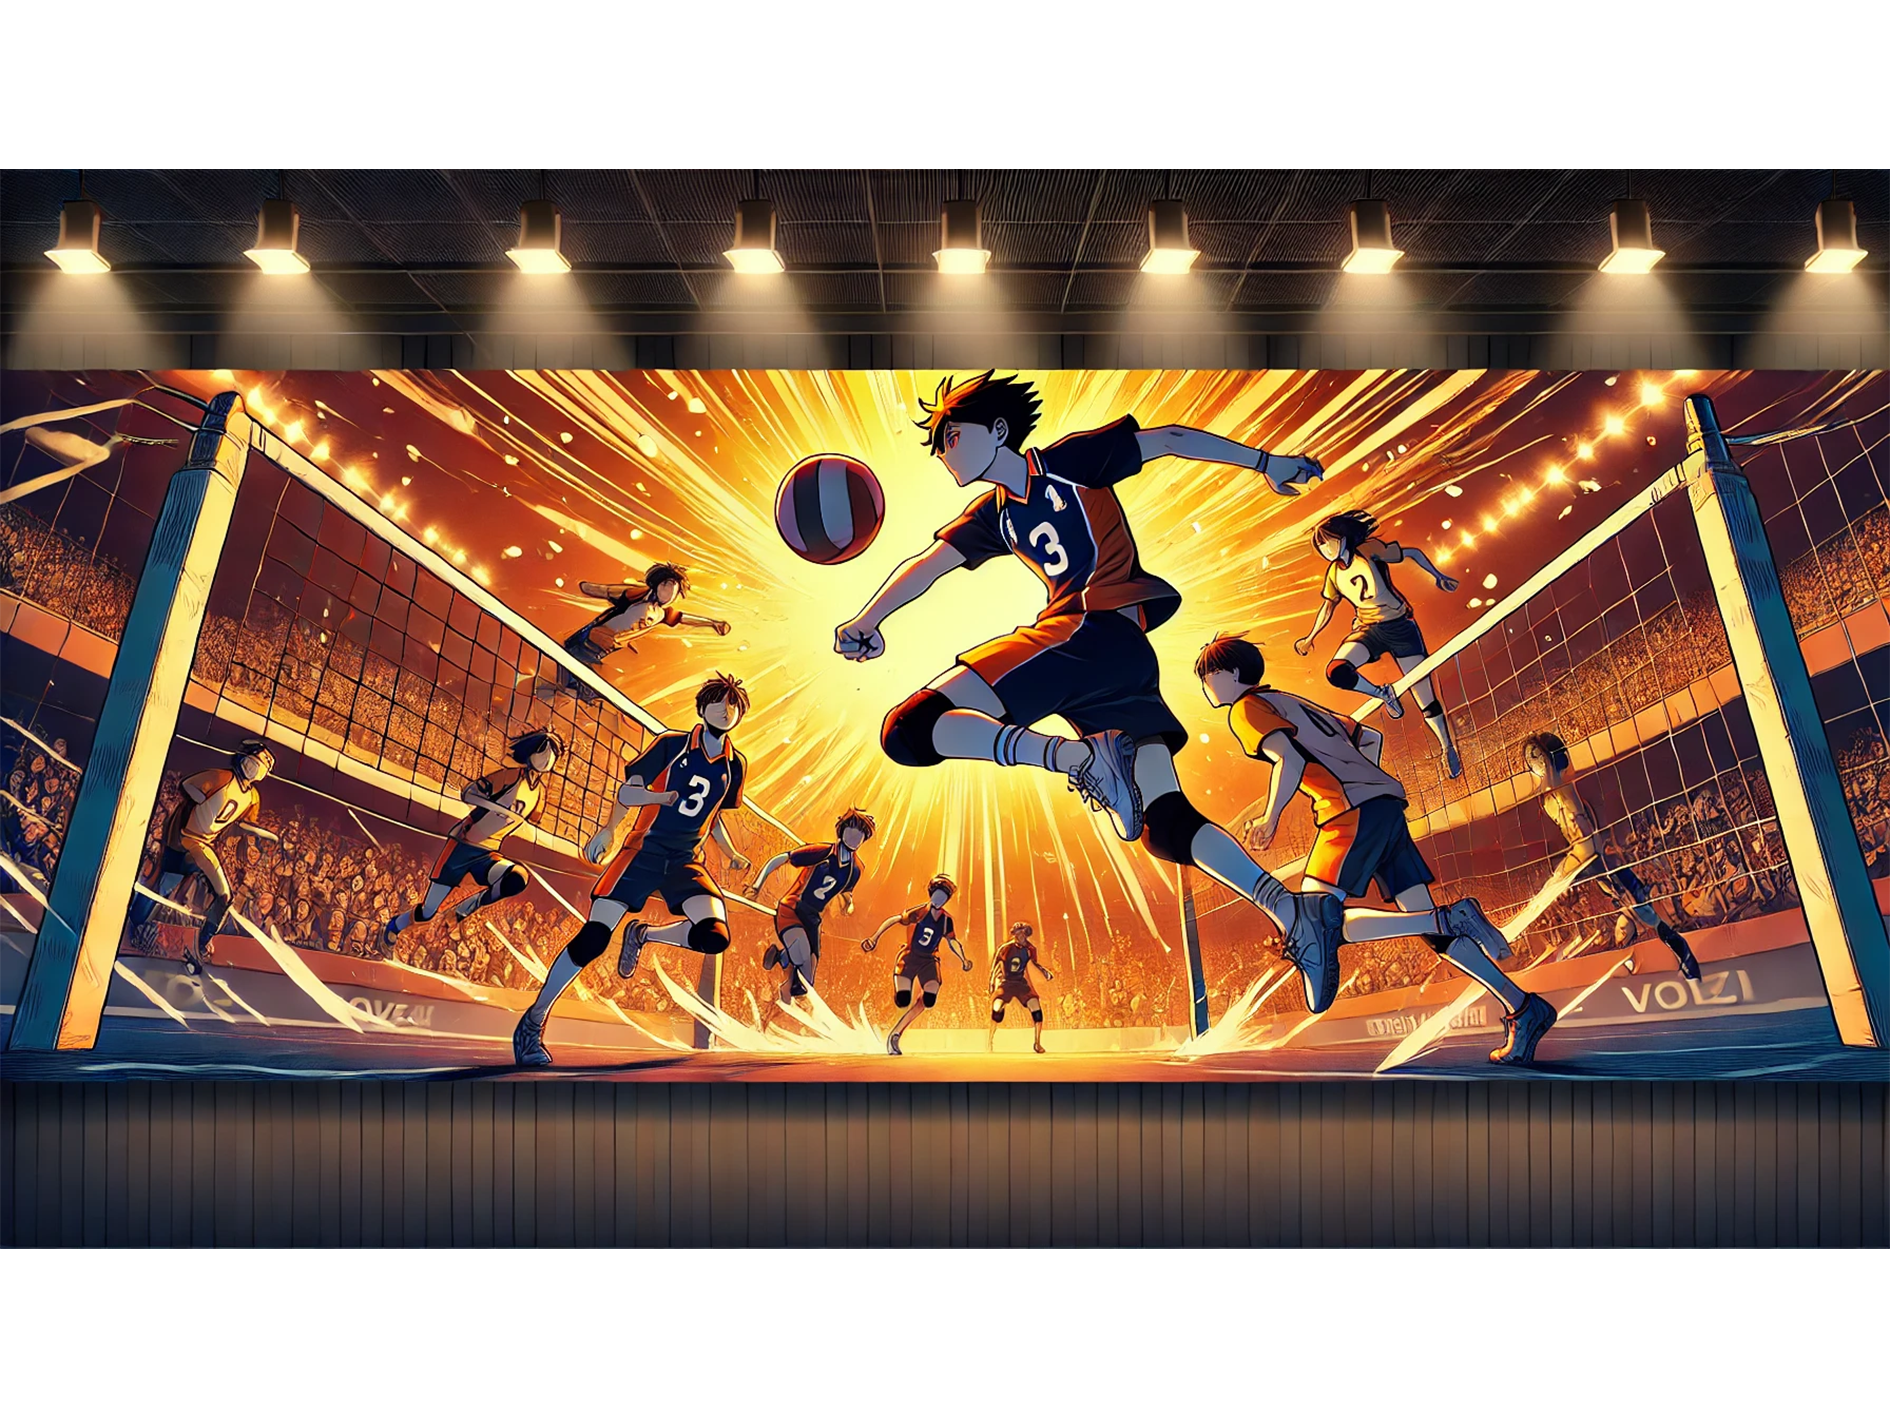
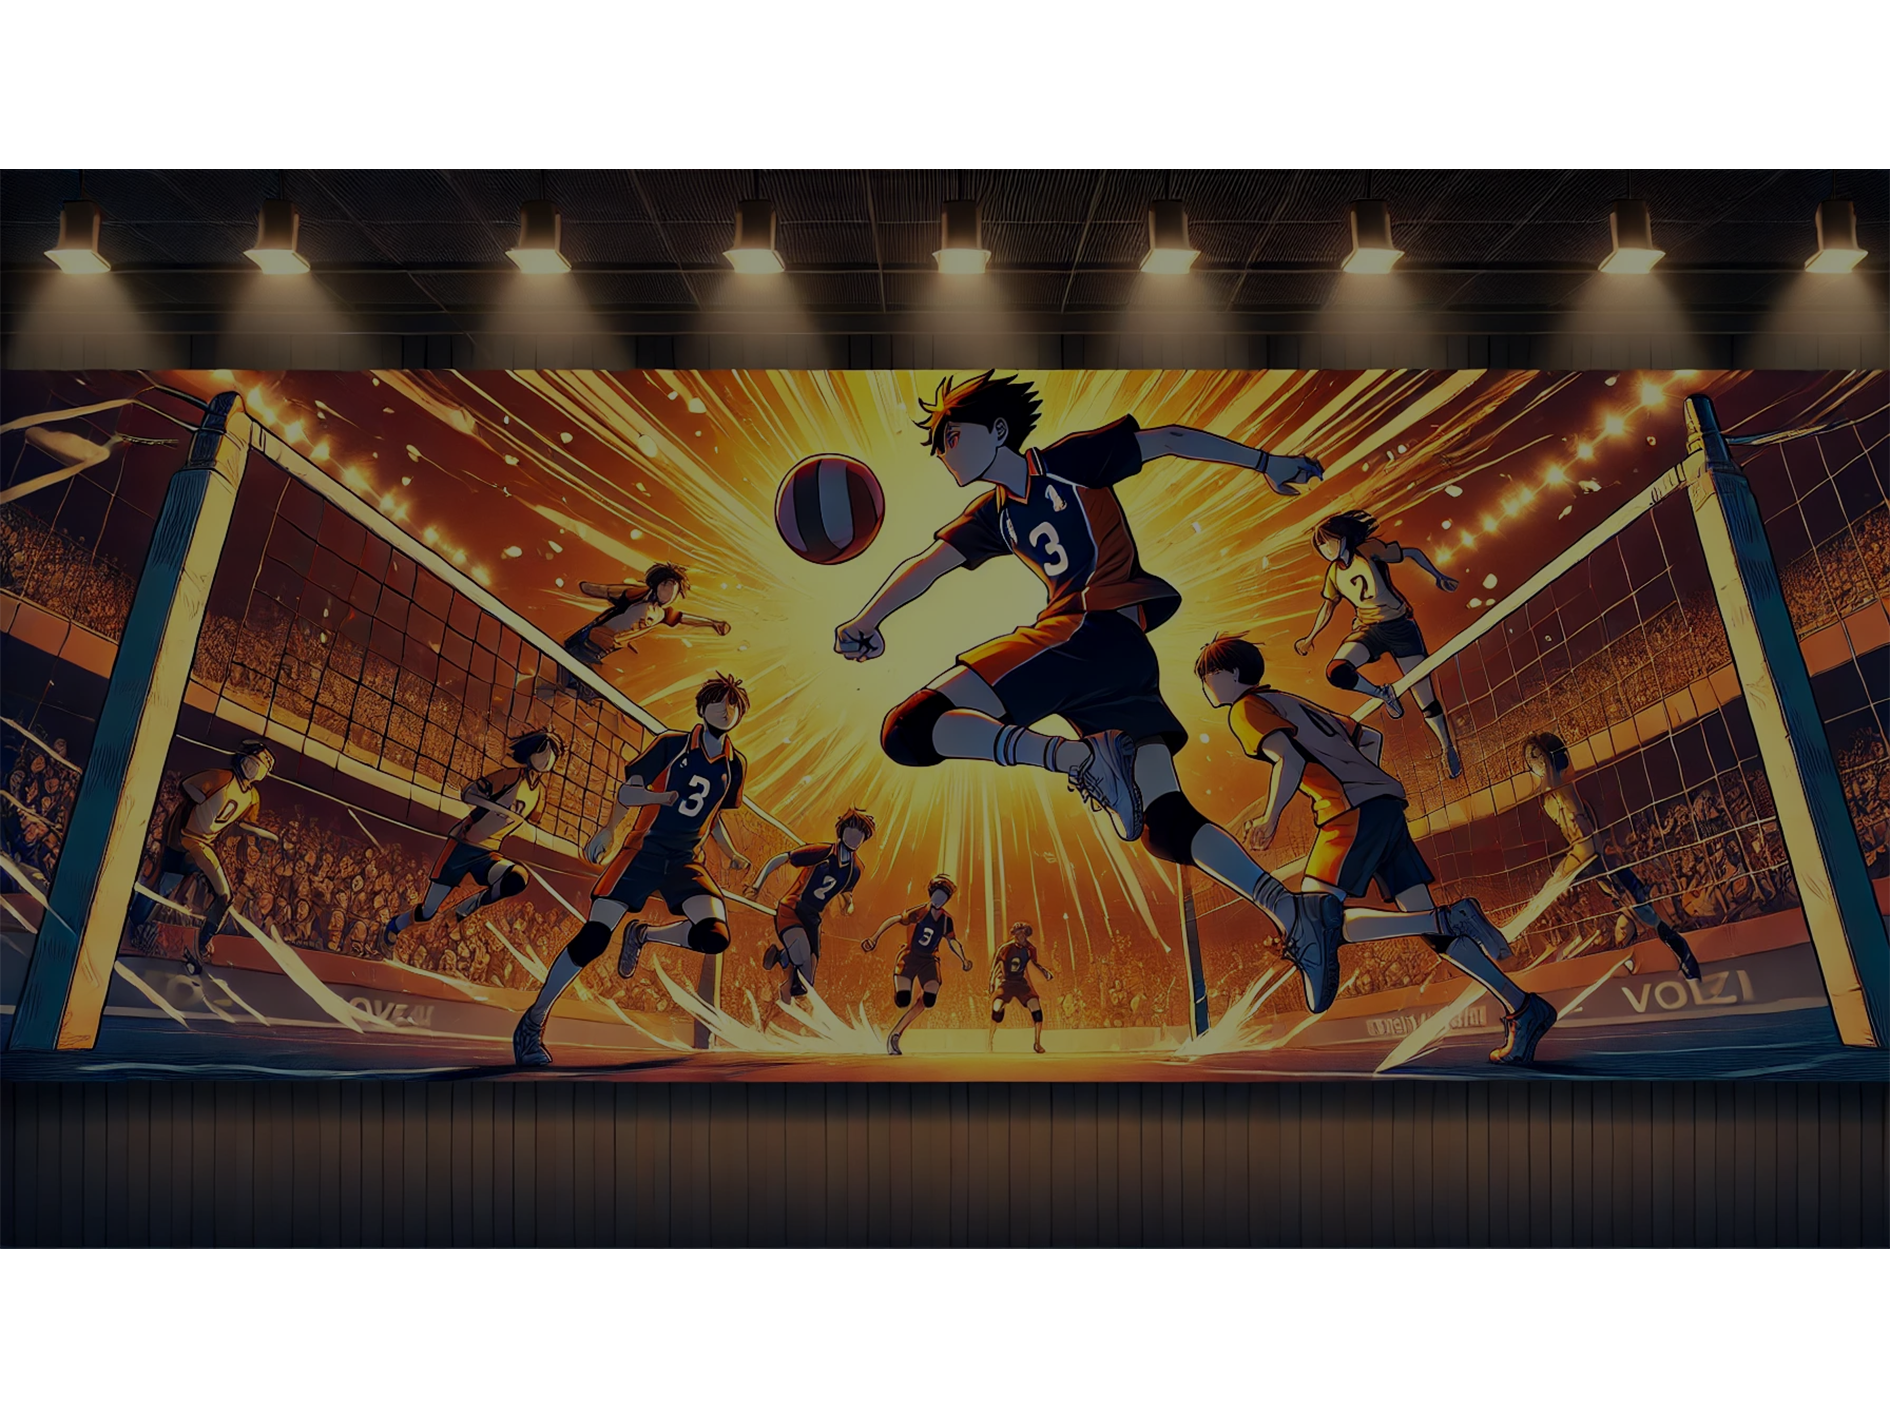
Atualização geral

diff --git a/index.html b/index.html
@@ -32,7 +32,7 @@
     <!--Cabeçalho-->
     <!--Main-->
     <main>
-        <h1>Volei</h1>
+        <h1>Vôlei</h1>
         <h2>"Voe além do que seus olhos podem ver, os maiores sonhos se tornam realidade."</h2>
         <a href="https://www.crunchyroll.com/pt-pt/premium?utm_source=google&utm_medium=paid_cr&utm_campaign=CR-Paid_Google_Web_Conversion_LATAM_BR_Trademark_SVOD&utm_term=crunchyroll&referrer=google_paid_cr_CR-Paid_Google_Web_Conversion_LATAM_BR_Trademark_SVOD&gad_source=1&gclid=CjwKCAiAxKy5BhBbEiwAYiW--3Tu7i0e6uRARxYVTs_QaJGYwGwE3uBG4o_dE58Zl0akx3BSUzGpTBoCCU4QAvD_BwE" class="botao" >Saiba +</a>
     </main>
@@ -76,7 +76,7 @@
         <div class="container"> 
             <div id="institucional">
             <h2>Vôlei e Anime: Uma Combinação Inspiradora!</h2>
-            <p>Se você ama vôlei e é fã de anime, sabe que essa combinação vai muito além das quadras e telas. Histórias emocionantes,partidas cheias de ação tornam essa união irresistível para quem é apaixonado por esportes</p>
+            <p>Se você ama vôlei sabe que essa combinação vai muito além das quadras e telas. Histórias emocionantes,partidas cheias de ação tornam essa união irresistível para quem é apaixonado por esportes</p>
             </div>
                 <div id="vteste">
                 <iframe width="560" height="315" src="https://www.youtube.com/embed/2e-q4xayflU?si=nm2XHtk1snt2jcqw" title="YouTube video player" allow="accelerometer; autoplay; clipboard-write; encrypted-media; gyroscope; picture-in-picture; web-share" referrerpolicy="strict-origin-when-cross-origin" allowfullscreen></iframe>

diff --git a/style.css b/style.css
@@ -9,6 +9,7 @@
     --preto: #000000;
     --vermelho: #ff0000;
     --azulescuro: rgb(10, 5, 255);
+    --cinza: gray;
 
 }
 
@@ -75,7 +76,7 @@ nav ul{
     height: 100vh;  /*100vh - 100% altura da tela*/
     background-color: rgb(255, 165, 0, 0.2); /* 0.5* = 50% de transparencia (0 a 1 (100%)*/
     list-style: none; /* remover bullets */
-    width: 65%;
+    width: 50%;
     position: fixed;
     top: 45px;
     right: -65%;
@@ -88,7 +89,7 @@ nav ul li{
 
 }
 nav ul li a {
-    color: var(--preto);
+    color: var(--branco);
     text-decoration: none; /*remover sublinhado*/
 }
 
@@ -116,7 +117,7 @@ label {
 /*Banner*/
 main{
     height: 100vh;
-    background: url(img/banner-1.png);
+    background: url(img/bannegpt.png);
     background-size: cover;
     background-position: center;
     display: flex;
@@ -137,6 +138,7 @@ main h1{
 main h2{
     font-size: 2.0em;
     margin-top: 9px;
+
 }
 
 
@@ -210,12 +212,13 @@ main h2{
 }
 
 #sobre h2, p{
-    color:var(--azul)
+    color:var(--azul);
+
 }
 #vteste iframe {
     width: 340px;
     height: 191px;
-    margin-top: 20px
+    margin-top: 20px;
 }
 
 
@@ -347,7 +350,7 @@ main h1, h2 {
        
 
    }
-   /*transformaçã do menu*/
+   /*transformação do menu*/
    label{
     display: none;
    }
@@ -379,7 +382,7 @@ main h1, h2 {
         
     }
     #vteste iframe {
-       margin: 0;
+       margin: 0px;
     }
 }
 /* Telas FullHD /4K /SmartTV */
@@ -419,6 +422,6 @@ main h2{
     
 }
 #vteste iframe {
-    margin: 0;
+    margin: 0px;
  }
 }
